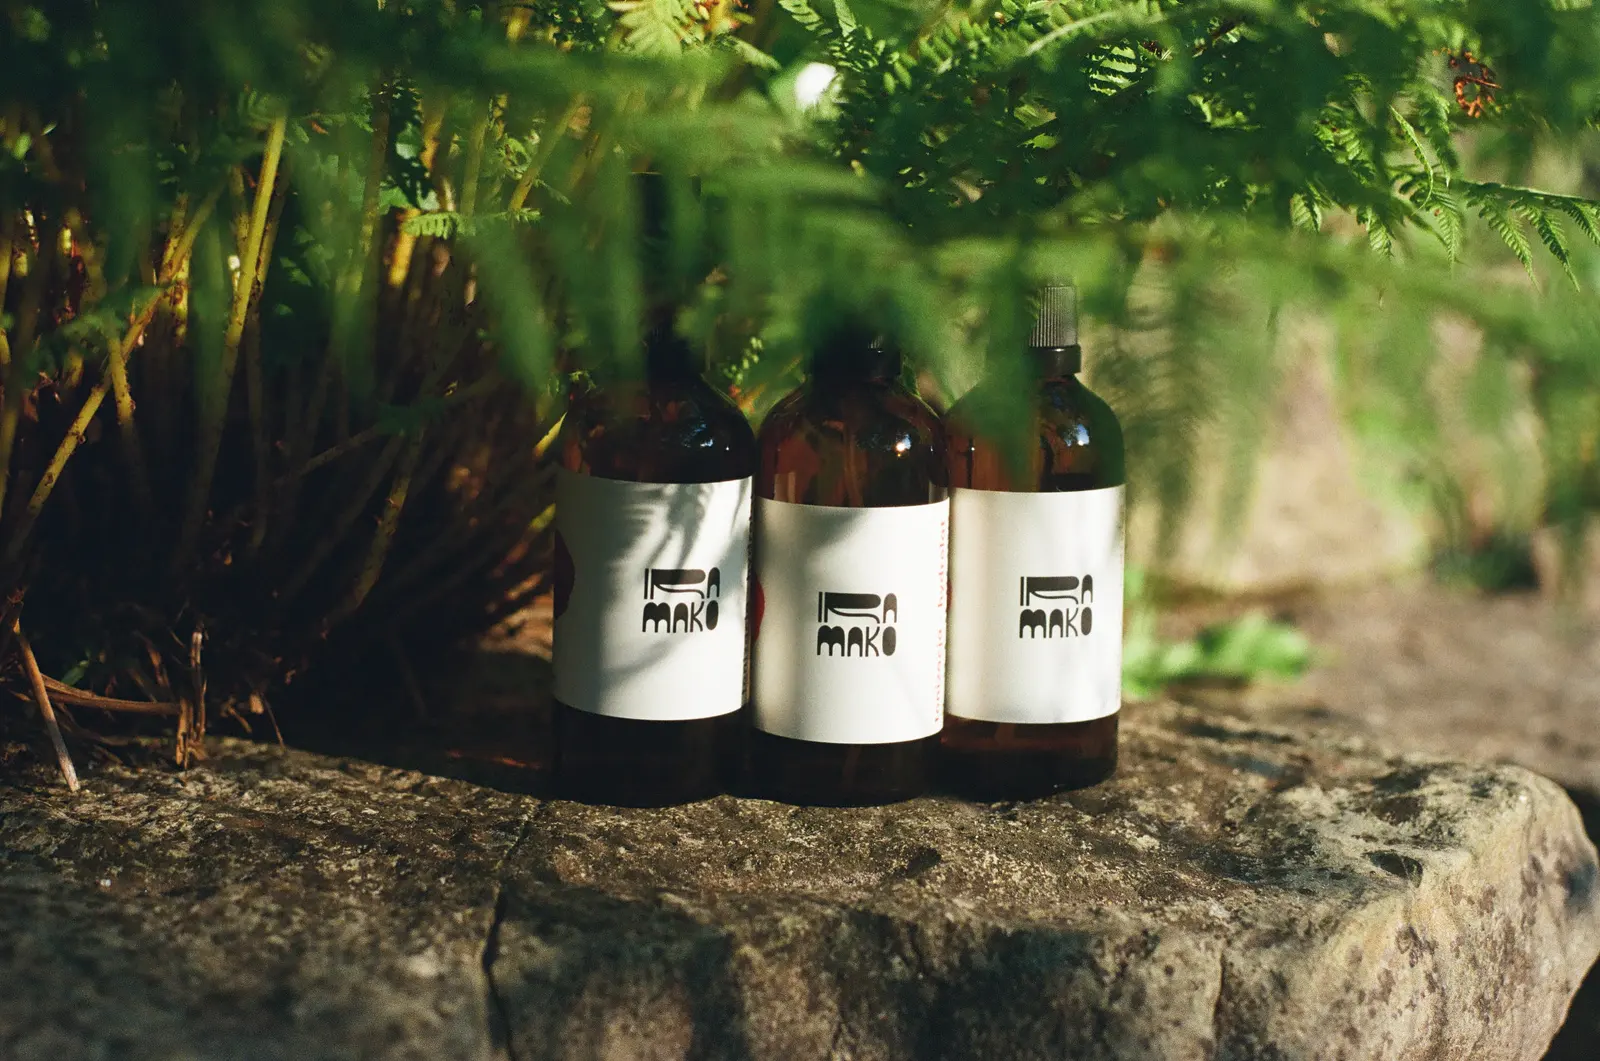
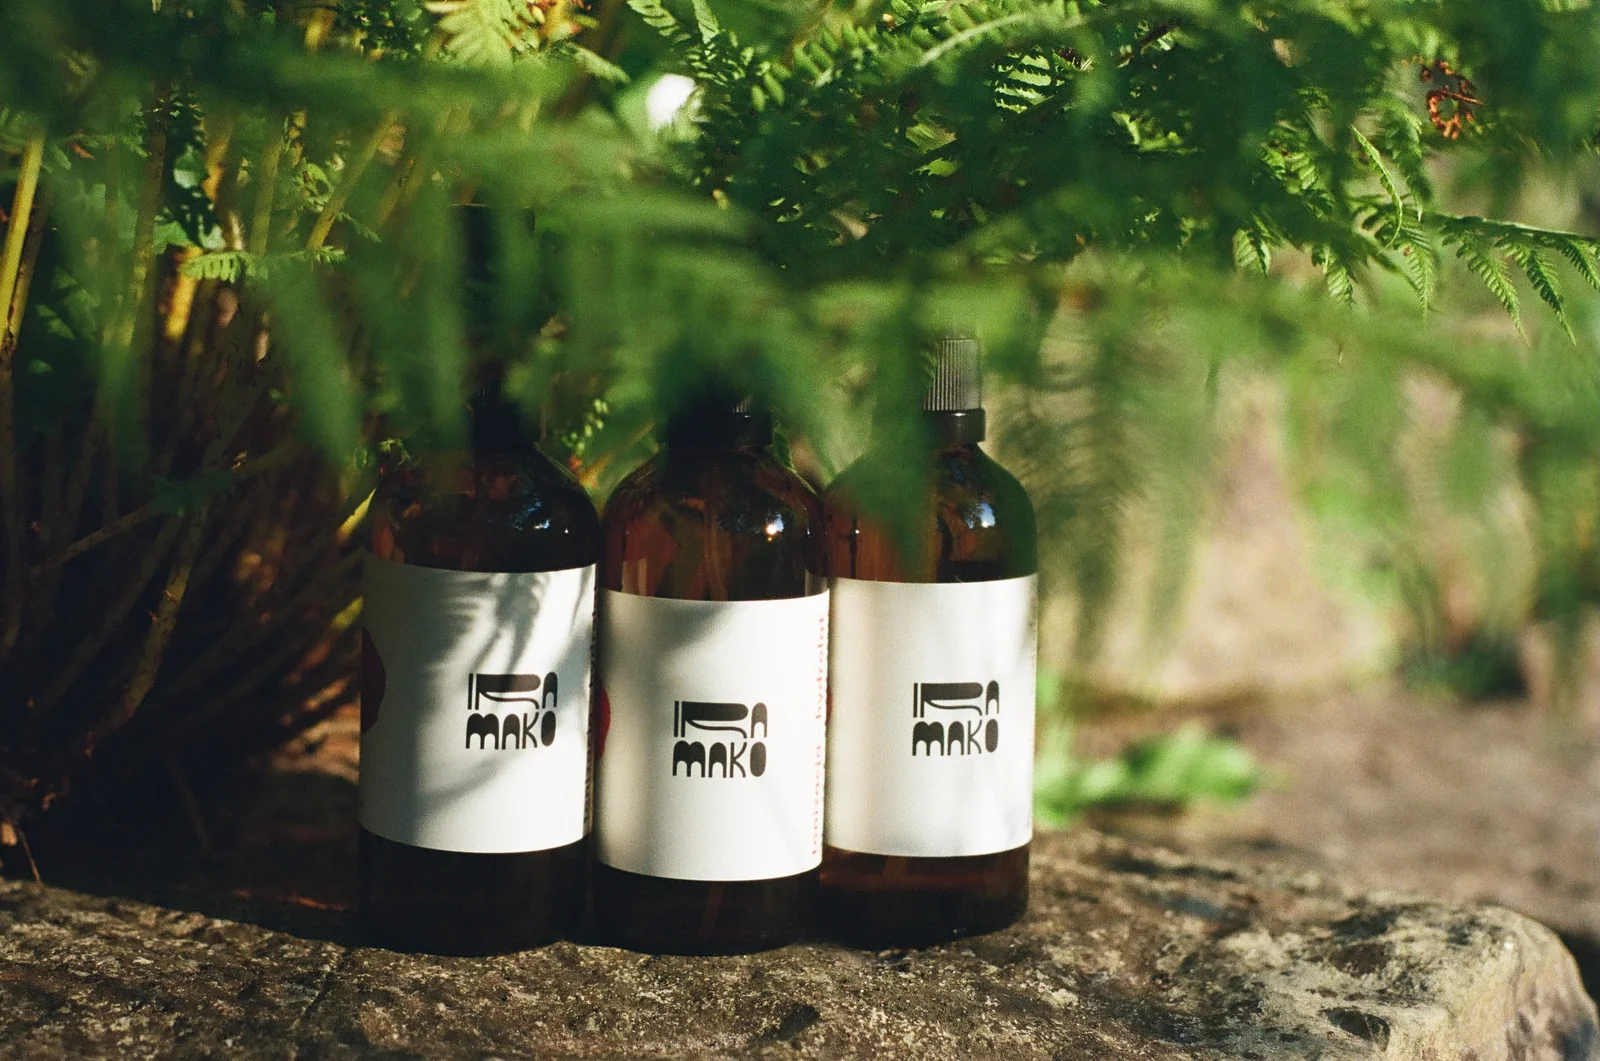
Zdjęcia produktów z sesji bez tła, nowe kadry w sekcji o marce
- kremy, hydrolaty (różany, neroli, arbuz), glinka i olejek rozmaryn
  dostają zdjęcia z sesji produktowej, wycięte z białego tła do
  przezroczystego webp
- olejek lawenda zostaje na placeholderze (brak zdjęcia w paczce)
- cień pod wąskimi butelkami (glinka, olejek) przesunięty jak przy
  hydrolatach
- w karuzeli na /about podmienione 3 z 4 zdjęć na nowe kadry;
  łąka zostaje

Claude-Session: https://claude.ai/code/session_01TZ4GP5BN4MMcobkYa1q3FL

diff --git a/src/data/products.ts b/src/data/products.ts
@@ -1,10 +1,11 @@
 import type { ImageMetadata } from "astro";
-import kremRetinol from "../assets/products/krem-retinol.webp";
-import kremB3 from "../assets/products/krem-b3.webp";
+import kremOdzywczy from "../assets/products/krem-odzywczy.webp";
+import kremNawilzajacy from "../assets/products/krem-nawilzajacy.webp";
 import glinka from "../assets/products/glinka.webp";
-import hydrolat from "../assets/products/hydrolat.webp";
-import hydrolatArbuz from "../assets/products/hydrolat-arbuz.webp";
+import hydrolatRozany from "../assets/products/hydrolat-rozany.webp";
+import hydrolatArbuz from "../assets/products/hydrolat-arbuzowy.webp";
 import hydrolatNeroli from "../assets/products/hydrolat-neroli.webp";
+import olejekRozmaryn from "../assets/products/olejek-rozmaryn.webp";
 import placeholder from "../assets/products/placeholder.webp";
 
 export type Category = "kremy" | "hydrolaty" | "glinki" | "olejki";
@@ -62,7 +63,7 @@ export const products: Product[] = [
       { size: "60 ml", price: "150 zł" },
     ],
     accent: "#a80070",
-    image: kremRetinol,
+    image: kremOdzywczy,
     alt: "Słoik kremu odżywczego z retinolem roślinnym z fuksjową plamą na etykiecie",
     intro:
       "Codzienna dawka emolientów, witamin i antyoksydantów. Odżywczy olej shea, nawilżający olej migdałowy, łagodzący hydrolat z róży damasceńskiej, regenerująca alantoina, ochronny olej z nasion malin, łagodny retinol roślinny, wzmacniający niacynamid oraz naturalne olejki eteryczne. Stworzony, by przywrócić skórze blask, elastyczność i komfort.",
@@ -135,7 +136,7 @@ export const products: Product[] = [
       { size: "60 ml", price: "150 zł" },
     ],
     accent: "#1b2a96",
-    image: kremB3,
+    image: kremNawilzajacy,
     alt: "Słoik kremu nawilżającego z kobaltową plamą na etykiecie",
     intro:
       "Codzienna dawka emolientów, witamin i antyoksydantów. Odżywczy olej shea, nawilżający olej migdałowy, łagodzący hydrolat z róży damasceńskiej, regenerująca alantoina, ochronny olej z nasion malin, wzmacniający niacynamid oraz naturalne olejki eteryczne. Stworzony, by przywrócić skórze komfort i nawilżenie.",
@@ -212,8 +213,8 @@ export const products: Product[] = [
     fullName: "Hydrolat z płatków róży damasceńskiej",
     variants: [{ size: "100 ml", price: "40 zł" }],
     accent: "#b5235c",
-    image: hydrolat,
-    alt: "Szklana butelka hydrolatu różanego iramako",
+    image: hydrolatRozany,
+    alt: "Butelka hydrolatu różanego z fuksjową plamą na etykiecie",
     intro:
       "Naturalny hydrolat bez konserwantów — idealny element codziennej pielęgnacji jako tonik po oczyszczaniu lub mgiełka odświeżająca w ciągu dnia. Pomaga przywrócić skórze naturalne pH po demakijażu i przygotowuje ją do kolejnych etapów pielęgnacji.",
     forWhom:
@@ -251,7 +252,7 @@ export const products: Product[] = [
     variants: [{ size: "100 ml", price: "40 zł" }],
     accent: "#D97A66",
     image: hydrolatNeroli,
-    alt: "Szklana butelka hydrolatu neroli iramako",
+    alt: "Butelka hydrolatu neroli z brzoskwiniową plamą na etykiecie",
     intro:
       "Naturalny hydrolat — idealny element codziennej pielęgnacji jako tonik po oczyszczaniu lub mgiełka odświeżająca w ciągu dnia. Pomaga przywrócić skórze naturalne pH po oczyszczaniu i przygotowuje ją do kolejnych etapów pielęgnacji. Pozostawia skórę odświeżoną, miękką i pełną komfortu.",
     forWhom:
@@ -289,7 +290,7 @@ export const products: Product[] = [
     variants: [{ size: "100 ml", price: "40 zł" }],
     accent: "#e45050",
     image: hydrolatArbuz,
-    alt: "Szklana butelka hydrolatu z arbuza iramako",
+    alt: "Butelka hydrolatu z arbuza z czerwoną plamą na etykiecie",
     intro:
       "Naturalny hydrolat bez konserwantów — idealny element codziennej pielęgnacji jako tonik po oczyszczaniu lub mgiełka odświeżająca w ciągu dnia. Sprawdza się jako mgiełka, która nawilża i chłodzi skórę, zwłaszcza w gorące letnie dni. Pomaga przywrócić skórze naturalne pH po demakijażu i przygotowuje ją do kolejnych etapów pielęgnacji.",
     forWhom:
@@ -327,7 +328,7 @@ export const products: Product[] = [
     variants: [{ size: "40 g", price: "40 zł" }],
     accent: "#5f6f8c",
     image: glinka,
-    alt: "Słoik białej glinki kaolinowej z logo iramako",
+    alt: "Butelka glinki kaolinowej z niebieskimi kropkami na etykiecie",
     intro:
       "Minimalistyczna biała glinka kaolinowa — mineralna pielęgnacja każdego typu cery, również suchej i wrażliwej. Działa oczyszczająco, absorbując nadmiar sebum, pomaga zmniejszyć widoczność porów i pozostawia skórę świeżą oraz matową.",
     forWhom:
@@ -429,8 +430,8 @@ export const products: Product[] = [
     fullName: "Lekki olejek do twarzy",
     variants: [{ size: "30 ml", price: "50 zł" }],
     accent: "#6b8c5e",
-    image: placeholder,
-    alt: "Placeholder — zdjęcie lekkiego olejku do twarzy iramako wkrótce",
+    image: olejekRozmaryn,
+    alt: "Butelka z pipetą — olejek do twarzy rozmaryn + werbena iramako",
     intro:
       "Lekki roślinny olejek do codziennej pielęgnacji twarzy. Połączenie oleju migdałowego, jojoba i witaminy E wspiera naturalną równowagę skóry, pozostawiając ją miękką, gładką i pełną blasku. Świeży aromat werbeny i rozmarynu sprawia, że pielęgnacja staje się przyjemnym rytuałem.",
     forWhom: "Dla skóry normalnej, wrażliwej i suchej.",

diff --git a/TODO.md b/TODO.md
@@ -2,13 +2,13 @@
 
 ## Zdjęcia produktów (placeholdery do podmiany)
 - **Olejek do twarzy — lawenda + werbena** (`olejki`) — używa `src/assets/products/placeholder.webp`. Dane w `src/data/products.ts` przy `slug: olejek-do-twarzy-lawenda-werbena`.
-- **Hydrolaty arbuz + neroli** (`hydrolaty`) — tymczasowo używają generycznego `hydrolat.webp`. Podmienić na właściwe foto, gdy będą. Dane przy `slug: hydrolat-arbuzowy` i `hydrolat-neroli`.
+- Pozostałe produkty mają już zdjęcia z sesji produktowej (30.07.2026), wycięte z białego tła. W paczce są też niewykorzystane ujęcia: słoiki 60 ml i boki etykiet z logo / nazwą linii — przydadzą się, gdyby karta produktu miała dostać galerię albo osobne zdjęcie dla 60 ml.
 
 ## Sekcja „Kosmetyki bez nadmiaru" na stronie głównej (mail #7)
 - Czeka na zdjęcia w wersji z miękkim cieniem (Drive). Wrzucić pliki do `src/assets/` i przeprojektować sekcję: zostawić róża / malina / arbuz + odnośnik do `/produkty`, mniejsze zdjęcia, bez hovera.
 
 ## Warianty hydrolatów (mail #3)
-- Arbuz i neroli — dodane (generyczne foto, patrz wyżej).
+- Arbuz i neroli — dodane, z własnymi zdjęciami.
 
 ## Sekcja kontakt
 - Dane firmy (nazwa, NIP, REGON) zdjęte z `/contact` — zostaje e-mail i Instagram. Telefon tylko w stopce. Czeka na zdjęcie od Ireny, żeby sekcja nie była tak minimalistyczna.
